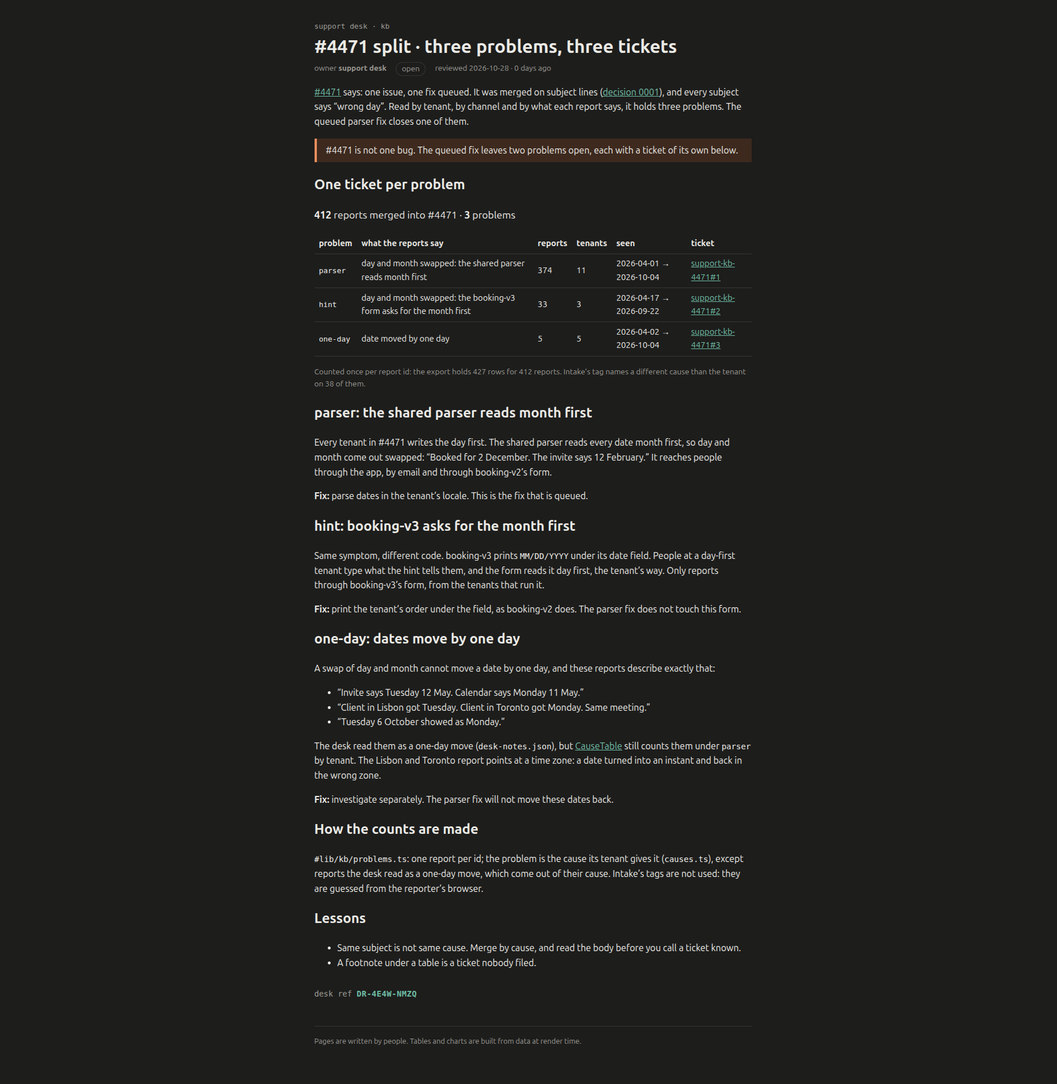
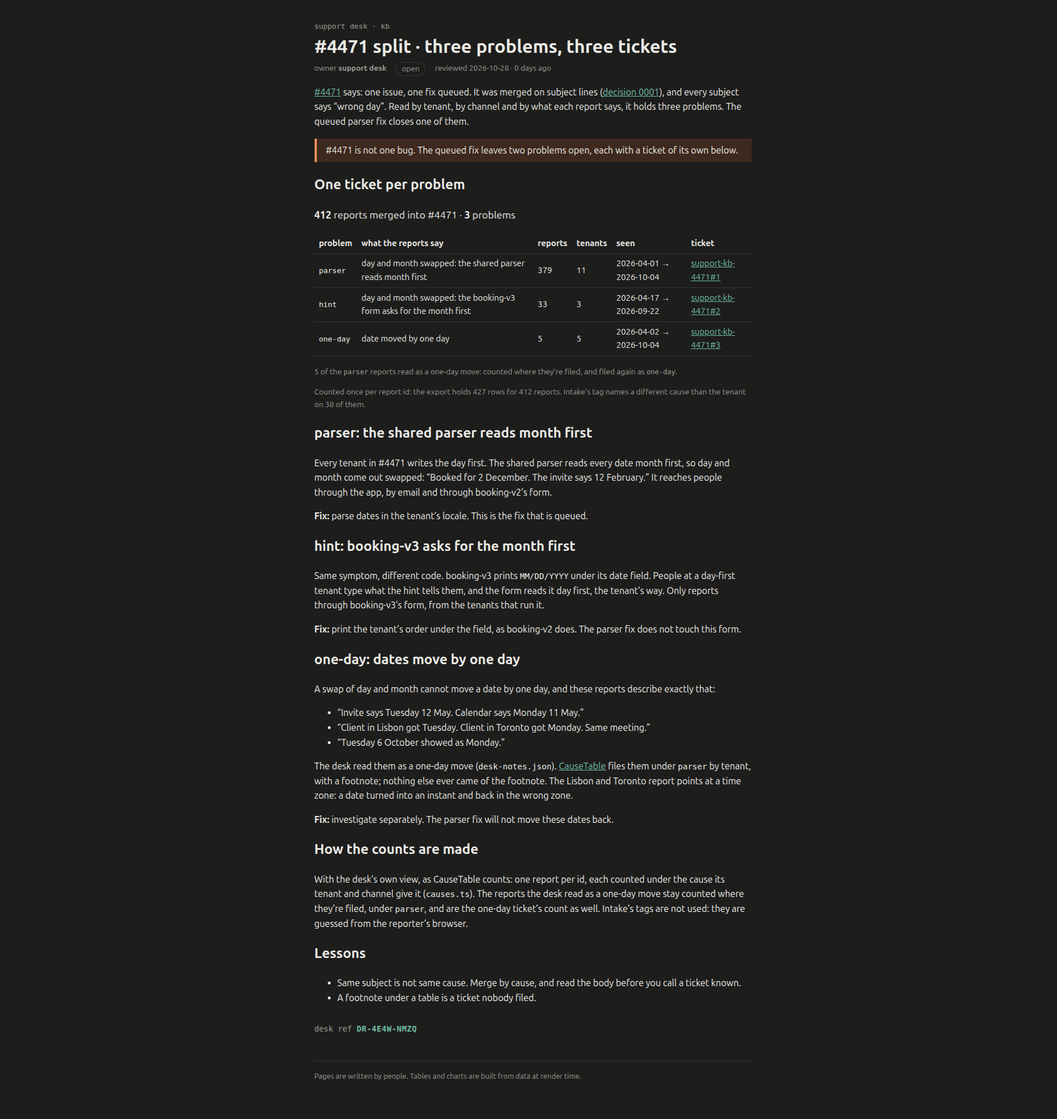
kb: count #4471 problems with the desk's own view (parser 379, hint 33, one-day 5)

Changed region(s): [[0.2791, 0.0308, 0.7133, 0.5538], [0.2791, 0.6154, 0.7133, 0.9231]]

diff --git a/rendered/site/kb/incidents/4471/split.html b/rendered/site/kb/incidents/4471/split.html
@@ -9,11 +9,11 @@
 		<link href="../../../_app/immutable/chunks/B2Ul7l_u.js" rel="modulepreload">
 		<link href="../../../_app/immutable/chunks/BCPXOG7W.js" rel="modulepreload">
 		<link href="../../../_app/immutable/chunks/Dh1V97Jm.js" rel="modulepreload">
-		<link href="../../../_app/immutable/entry/app.CLPMnXo7.js" rel="modulepreload">
+		<link href="../../../_app/immutable/entry/app.C-dClkmc.js" rel="modulepreload">
 		<link href="../../../_app/immutable/nodes/0.C9KfiiPz.js" rel="modulepreload">
 		<link href="../../../_app/immutable/chunks/DK3Fl9T5.js" rel="modulepreload">
-		<link href="../../../_app/immutable/nodes/5.BLvkPviV.js" rel="modulepreload">
-		<link href="../../../_app/immutable/chunks/BHf9DlkA.js" rel="modulepreload">
+		<link href="../../../_app/immutable/nodes/5.CCMx0hdd.js" rel="modulepreload">
+		<link href="../../../_app/immutable/chunks/CQjP2o5I.js" rel="modulepreload">
 		<link href="../../../_app/immutable/chunks/BTPwLomz.js" rel="modulepreload">
 		<link href="../../../_app/immutable/chunks/CVBzP17p.js" rel="modulepreload">
 		<link href="../../../_app/immutable/chunks/BIy4WKJS.js" rel="modulepreload">
@@ -26,30 +26,31 @@
     <div style="display: contents"><!--[--><!--[--><!--[0--><!--[--><!--[--><!--[-1--><!--[--><div class="kb svelte-e2jw2j"><header><a class="crumb svelte-e2jw2j" href="/kb">support desk · kb</a> <h1 class="svelte-e2jw2j">#4471 split · three problems, three tickets</h1> <p class="meta svelte-e2jw2j"><span>owner <b>support desk</b></span> <span class="status open svelte-e2jw2j">open</span> <span class="svelte-e2jw2j">reviewed 2026-10-28 · 0 days ago</span></p></header> <!--[-1--><!--]--> <main><p><a href="/kb/incidents/4471">#4471</a> says: one issue, one fix queued. It was merged on subject lines
 (<a href="/kb/decisions/0001-dedupe-by-subject">decision 0001</a>), and every subject says “wrong day”. Read by
 tenant, by channel and by what each report says, it holds three problems. The queued parser fix
-closes one of them.</p> <aside class="warn svelte-17bri61"><!---->#4471 is not one bug. The queued fix leaves two problems open, each with a ticket of its own below.<!----></aside><!----> <h2>One ticket per problem</h2> <p class="sum svelte-1op6c6"><strong>412</strong> reports merged into #4471 · <strong>3</strong> problems</p> <table><thead><tr><th>problem</th><th>what the reports say</th><th>reports</th><th>tenants</th><th>seen</th><th>ticket</th></tr></thead><tbody><!--[--><tr><td><code>parser</code></td><td>day and month swapped: the shared parser reads month first</td><td>374</td><td>11</td><td>2026-04-01 → 2026-10-04</td><td><!--[0--><a href="https://github.com/yazon/support-kb-4471/issues/1">support-kb-4471#1</a><!--]--></td></tr><tr><td><code>hint</code></td><td>day and month swapped: the booking-v3 form asks for the month first</td><td>33</td><td>3</td><td>2026-04-17 → 2026-09-22</td><td><!--[0--><a href="https://github.com/yazon/support-kb-4471/issues/2">support-kb-4471#2</a><!--]--></td></tr><tr><td><code>one-day</code></td><td>date moved by one day</td><td>5</td><td>5</td><td>2026-04-02 → 2026-10-04</td><td><!--[0--><a href="https://github.com/yazon/support-kb-4471/issues/3">support-kb-4471#3</a><!--]--></td></tr><!--]--></tbody></table> <p class="note svelte-1op6c6">Counted once per report id: the export holds 427 rows for 412 reports. Intake's tag names
+closes one of them.</p> <aside class="warn svelte-17bri61"><!---->#4471 is not one bug. The queued fix leaves two problems open, each with a ticket of its own below.<!----></aside><!----> <h2>One ticket per problem</h2> <p class="sum svelte-1op6c6"><strong>412</strong> reports merged into #4471 · <strong>3</strong> problems</p> <table><thead><tr><th>problem</th><th>what the reports say</th><th>reports</th><th>tenants</th><th>seen</th><th>ticket</th></tr></thead><tbody><!--[--><tr><td><code>parser</code></td><td>day and month swapped: the shared parser reads month first</td><td>379</td><td>11</td><td>2026-04-01 → 2026-10-04</td><td><!--[0--><a href="https://github.com/yazon/support-kb-4471/issues/1">support-kb-4471#1</a><!--]--></td></tr><tr><td><code>hint</code></td><td>day and month swapped: the booking-v3 form asks for the month first</td><td>33</td><td>3</td><td>2026-04-17 → 2026-09-22</td><td><!--[0--><a href="https://github.com/yazon/support-kb-4471/issues/2">support-kb-4471#2</a><!--]--></td></tr><tr><td><code>one-day</code></td><td>date moved by one day</td><td>5</td><td>5</td><td>2026-04-02 → 2026-10-04</td><td><!--[0--><a href="https://github.com/yazon/support-kb-4471/issues/3">support-kb-4471#3</a><!--]--></td></tr><!--]--></tbody></table> <!--[--><!--[0--><p class="note svelte-1op6c6">5 of the <code>parser</code> reports read as a one-day move: counted where they're filed, and filed again as <code>one-day</code>.</p><!--]--><!--[-1--><!--]--><!--]--> <p class="note svelte-1op6c6">Counted once per report id: the export holds 427 rows for 412 reports. Intake's tag names
   a different cause than the tenant on 38 of them.</p><!----> <h2>parser: the shared parser reads month first</h2> <p>Every tenant in #4471 writes the day first. The shared parser reads every date month first, so day
 and month come out swapped: “Booked for 2 December. The invite says 12 February.” It reaches people
 through the app, by email and through booking-v2’s form.</p> <p><strong>Fix:</strong> parse dates in the tenant’s locale. This is the fix that is queued.</p> <h2>hint: booking-v3 asks for the month first</h2> <p>Same symptom, different code. booking-v3 prints <code>MM/DD/YYYY</code> under its date field. People at a
 day-first tenant type what the hint tells them, and the form reads it day first, the tenant’s way.
 Only reports through booking-v3’s form, from the tenants that run it.</p> <p><strong>Fix:</strong> print the tenant’s order under the field, as booking-v2 does. The parser fix does not touch
-this form.</p> <h2>one-day: dates move by one day</h2> <p>A swap of day and month cannot move a date by one day, and these reports describe exactly that:</p> <ul><li>“Invite says Tuesday 12 May. Calendar says Monday 11 May.”</li> <li>“Client in Lisbon got Tuesday. Client in Toronto got Monday. Same meeting.”</li> <li>“Tuesday 6 October showed as Monday.”</li></ul> <p>The desk read them as a one-day move (<code>desk-notes.json</code>), but <a href="/kb/incidents/4471">CauseTable</a> still
-counts them under <code>parser</code> by tenant. The Lisbon and Toronto report points at a time zone: a date
-turned into an instant and back in the wrong zone.</p> <p><strong>Fix:</strong> investigate separately. The parser fix will not move these dates back.</p> <h2>How the counts are made</h2> <p><code>#lib/kb/problems.ts</code>: one report per id; the problem is the cause its tenant gives it
-(<code>causes.ts</code>), except reports the desk read as a one-day move, which come out of their cause. Intake’s
-tags are not used: they are guessed from the reporter’s browser.</p> <h2>Lessons</h2> <ul><li>Same subject is not same cause. Merge by cause, and read the body before you call a ticket known.</li> <li>A footnote under a table is a ticket nobody filed.</li></ul> <!--[0--><p class="stamp svelte-1280m42">desk ref <b class="svelte-1280m42">DR-4E4W-NMZQ</b></p><!--]--><!----><!----></main> <footer class="svelte-e2jw2j">Pages are written by people. Tables and charts are built from data at render time.</footer></div><!--]--><!--]--><!--]--><!----><!--]--><!--]--><!--]--><!----> <!--[-1--><!--]--><!--]-->
+this form.</p> <h2>one-day: dates move by one day</h2> <p>A swap of day and month cannot move a date by one day, and these reports describe exactly that:</p> <ul><li>“Invite says Tuesday 12 May. Calendar says Monday 11 May.”</li> <li>“Client in Lisbon got Tuesday. Client in Toronto got Monday. Same meeting.”</li> <li>“Tuesday 6 October showed as Monday.”</li></ul> <p>The desk read them as a one-day move (<code>desk-notes.json</code>). <a href="/kb/incidents/4471">CauseTable</a> files
+them under <code>parser</code> by tenant, with a footnote; nothing else ever came of the footnote. The Lisbon and
+Toronto report points at a time zone: a date turned into an instant and back in the wrong zone.</p> <p><strong>Fix:</strong> investigate separately. The parser fix will not move these dates back.</p> <h2>How the counts are made</h2> <p>With the desk’s own view, as CauseTable counts: one report per id, each counted under the cause its
+tenant and channel give it (<code>causes.ts</code>). The reports the desk read as a one-day move stay counted
+where they’re filed, under <code>parser</code>, and are the one-day ticket’s count as well. Intake’s tags are not
+used: they are guessed from the reporter’s browser.</p> <h2>Lessons</h2> <ul><li>Same subject is not same cause. Merge by cause, and read the body before you call a ticket known.</li> <li>A footnote under a table is a ticket nobody filed.</li></ul> <!--[0--><p class="stamp svelte-1280m42">desk ref <b class="svelte-1280m42">DR-4E4W-NMZQ</b></p><!--]--><!----><!----></main> <footer class="svelte-e2jw2j">Pages are written by people. Tables and charts are built from data at render time.</footer></div><!--]--><!--]--><!--]--><!----><!--]--><!--]--><!--]--><!----> <!--[-1--><!--]--><!--]-->
 			
 			<script>
 				{
-					__sveltekit_114actv = {
+					__sveltekit_jzo9e = {
 						base: new URL("../../..", location).pathname.slice(0, -1),
-						version: "1793191223536"
+						version: "1793193383338"
 					};
 
 					const element = document.currentScript.parentElement;
 
 					import("../../../_app/immutable/entry/start.CH5w6lId.js").then(async (kit) => {
-						kit.init(__sveltekit_114actv);
-						const app = await import("../../../_app/immutable/entry/app.CLPMnXo7.js");
+						kit.init(__sveltekit_jzo9e);
+						const app = await import("../../../_app/immutable/entry/app.C-dClkmc.js");
 						kit.start(app, element, {
 							node_ids: [0, 5],
 							data: [null,null],

diff --git a/rendered/site/_app/immutable/chunks/CQjP2o5I.js b/rendered/site/_app/immutable/chunks/CQjP2o5I.js
@@ -1,0 +1,15 @@
+import{t as e}from"./DK3Fl9T5.js";import{E as t,F as n,H as r,I as i,K as a,L as o,N as s,O as c,R as l,S as u,T as d,U as f,W as p,_ as m,c as h,h as g,k as _,n as v,q as y,r as b,t as x,w as S}from"./BCPXOG7W.js";import{t as C}from"./BTPwLomz.js";import{n as w,t as T}from"./CVBzP17p.js";import{a as E,i as D,l as O,o as k,r as A,t as j}from"./BIy4WKJS.js";var M=t(`<a> </a>`),N=t(`<tr><td><code> </code></td><td> </td><td> </td><td> </td><td> </td><td><!></td></tr>`),P=t(`<p class="note svelte-1op6c6"> <code> </code> reports read as a one-day move: counted where they're filed, and filed again as <code>one-day</code>.</p>`),F=t(`<p class="sum svelte-1op6c6"><strong> </strong> <strong> </strong> </p> <table><thead><tr><th>problem</th><th>what the reports say</th><th>reports</th><th>tenants</th><th>seen</th><th>ticket</th></tr></thead><tbody></tbody></table> <!> <p class="note svelte-1op6c6"> </p>`,1);function I(e,t){p(t,!0);let b=v(t,`tickets`,19,()=>({})),x=r(()=>w.filter(e=>e.mergedInto===t.ticket)),C=r(()=>O(_(x))),j=r(()=>E(_(C),A)),I=r(()=>_(C).filter(e=>T.oneDayMove.includes(e.id))),L=r(()=>_(C).filter(e=>e.meta.intakeTag!==D(e,A(e))).length),R=e=>{let t=e.map(e=>e.receivedAt.slice(0,10)).sort();return`${t[0]} → ${t[t.length-1]}`},z=r(()=>[..._(j).map(e=>({problem:e.cause,reports:e.reports,tenants:e.tenants,seen:`${e.firstSeen} → ${e.lastSeen}`})),{problem:`one-day`,reports:_(I),tenants:new Set(_(I).map(e=>e.tenant)).size,seen:R(_(I))}]),B={parser:`day and month swapped: the shared parser reads month first`,hint:`day and month swapped: the booking-v3 form asks for the month first`,"one-day":`date moved by one day`,unplaced:`no tenant on file`},V=e=>e.replace(/^https:\/\/github\.com\/[^/]+\/([^/]+)\/issues\//,`$1#`);var H=F(),U=i(H),W=n(U),G=o(W,!0),K=l(W),q=l(K),J=o(q,!0),Y=l(q);y(U);var X=l(U,2),Z=l(n(X));g(Z,21,()=>_(z),e=>e.problem,(e,t)=>{var r=N(),i=n(r),a=n(i),d=o(a,!0);y(i);var f=l(i),p=o(f,!0),g=l(f),v=o(g,!0),x=l(g),C=o(x,!0),w=l(x),T=o(w,!0),E=l(w),D=n(E),O=e=>{var n=M(),r=o(n,!0);s(e=>{h(n,`href`,b()[_(t).problem]),u(r,e)},[()=>V(b()[_(t).problem])]),S(e,n)},k=e=>{var t=c(`none yet`);S(e,t)};m(D,e=>{b()[_(t).problem]?e(O):e(k,-1)}),y(E),y(r),s(()=>{u(d,_(t).problem),u(p,B[_(t).problem]),u(v,_(t).reports.length),u(C,_(t).tenants),u(T,_(t).seen)}),S(e,r)}),y(Z),y(X);var Q=l(X,2);g(Q,17,()=>_(j),e=>e.cause,(e,t)=>{let c=r(()=>k(_(t),T.oneDayMove));var f=d(),p=i(f),h=e=>{var r=P(),i=n(r),d=l(i),f=o(d,!0);a(3),y(r),s(()=>{u(i,`${_(c)??``} of the `),u(f,_(t).cause)}),S(e,r)};m(p,e=>{_(c)&&e(h)}),S(e,f)});var $=l(Q,2),ee=o($);s(()=>{u(G,_(C).length),u(K,` reports merged into #${t.ticket??``} · `),u(J,_(z).length),u(Y,` ${_(z).length===1?`problem`:`problems`}`),u(ee,`Counted once per report id: the export holds ${_(x).length??``} rows for ${_(C).length??``} reports. Intake's tag names
+  a different cause than the tenant on ${_(L)??``} of them.`)}),S(e,H),f()}var L=`0123456789ABCDEFGHJKMNPQRSTVWXYZ`;function R(e,t){let n=t>>>0;for(let t=0;t<e.length;t++)n^=e.charCodeAt(t),n=Math.imul(n,16777619)>>>0;return n}function z(e){let t=e.trim(),n=R(t,2166136261),r=R(t,2654435769),i=BigInt(n)<<8n|BigInt(r&255),a=``;for(let e=0;e<8;e++)a=L[Number(i&31n)]+a,i>>=5n;return`DR-${a.slice(0,4)}-${a.slice(4)}`}var B=t(`<p class="stamp svelte-1280m42">desk ref <b class="svelte-1280m42"> </b></p>`),V=t(`<p class="stamp missing svelte-1280m42">no desk ref: this page isn't signed (no <code>signature</code> in its frontmatter)</p>`);function H(e,t){p(t,!0);let a=r(()=>t.signature?z(t.signature):null);var c=d(),h=i(c),g=e=>{var t=B(),r=l(n(t)),i=o(r,!0);y(t),s(()=>u(i,_(a))),S(e,t)},v=e=>{var t=V();S(e,t)};m(h,e=>{_(a)?e(g):e(v,-1)}),S(e,c),f()}var U=e({default:()=>Q,metadata:()=>W}),W={layout:`runbook`,title:`#4471 split · three problems, three tickets`,owner:`support desk`,status:`open`,reviewed:`2026-10-28T00:00:00.000Z`,signature:`Wojciech Czaplejewicz (yazon), with Claude Code`},{layout:G,title:K,owner:q,status:J,reviewed:Y,signature:X}=W,Z=t(`<p><a href="/kb/incidents/4471">#4471</a> says: one issue, one fix queued. It was merged on subject lines
+(<a href="/kb/decisions/0001-dedupe-by-subject">decision 0001</a>), and every subject says “wrong day”. Read by
+tenant, by channel and by what each report says, it holds three problems. The queued parser fix
+closes one of them.</p> <!> <h2>One ticket per problem</h2> <!> <h2>parser: the shared parser reads month first</h2> <p>Every tenant in #4471 writes the day first. The shared parser reads every date month first, so day
+and month come out swapped: “Booked for 2 December. The invite says 12 February.” It reaches people
+through the app, by email and through booking-v2’s form.</p> <p><strong>Fix:</strong> parse dates in the tenant’s locale. This is the fix that is queued.</p> <h2>hint: booking-v3 asks for the month first</h2> <p>Same symptom, different code. booking-v3 prints <code>MM/DD/YYYY</code> under its date field. People at a
+day-first tenant type what the hint tells them, and the form reads it day first, the tenant’s way.
+Only reports through booking-v3’s form, from the tenants that run it.</p> <p><strong>Fix:</strong> print the tenant’s order under the field, as booking-v2 does. The parser fix does not touch
+this form.</p> <h2>one-day: dates move by one day</h2> <p>A swap of day and month cannot move a date by one day, and these reports describe exactly that:</p> <ul><li>“Invite says Tuesday 12 May. Calendar says Monday 11 May.”</li> <li>“Client in Lisbon got Tuesday. Client in Toronto got Monday. Same meeting.”</li> <li>“Tuesday 6 October showed as Monday.”</li></ul> <p>The desk read them as a one-day move (<code>desk-notes.json</code>). <a href="/kb/incidents/4471">CauseTable</a> files
+them under <code>parser</code> by tenant, with a footnote; nothing else ever came of the footnote. The Lisbon and
+Toronto report points at a time zone: a date turned into an instant and back in the wrong zone.</p> <p><strong>Fix:</strong> investigate separately. The parser fix will not move these dates back.</p> <h2>How the counts are made</h2> <p>With the desk’s own view, as CauseTable counts: one report per id, each counted under the cause its
+tenant and channel give it (<code>causes.ts</code>). The reports the desk read as a one-day move stay counted
+where they’re filed, under <code>parser</code>, and are the one-day ticket’s count as well. Intake’s tags are not
+used: they are guessed from the reporter’s browser.</p> <h2>Lessons</h2> <ul><li>Same subject is not same cause. Merge by cause, and read the body before you call a ticket known.</li> <li>A footnote under a table is a ticket nobody filed.</li></ul> <!>`,1);function Q(e,t){let n=x(t,[`children`,`$$slots`,`$$events`,`$$legacy`]),r=`https://github.com/yazon/support-kb-4471/issues`,o={parser:`${r}/1`,hint:`${r}/2`,"one-day":`${r}/3`};C(e,b(()=>n,()=>W,{children:(e,t)=>{var n=Z(),r=l(i(n),2);j(r,{kind:`warn`,children:(e,t)=>{a();var n=c(`#4471 is not one bug. The queued fix leaves two problems open, each with a ticket of its own below.`);S(e,n)},$$slots:{default:!0}});var s=l(r,4);I(s,{ticket:4471,get tickets(){return o}}),H(l(s,32),{get signature(){return X}}),S(e,n)},$$slots:{default:!0}}))}export{Q as n,U as t};

diff --git a/src/lib/kb/ProblemTable.svelte b/src/lib/kb/ProblemTable.svelte
@@ -1,30 +1,42 @@
 <script lang="ts">
   import reports from '#lib/data/reports-4471.json';
   import notes from '#lib/data/desk-notes.json';
-  import { causeOf, uniqueById, type Report } from '#lib/kb/causes';
-  import { groupByProblem, type Problem } from '#lib/kb/problems';
+  import { causeOf, groupByCause, readAs, uniqueById, type Report } from '#lib/kb/causes';
   import { tenantOf } from '#lib/kb/locales';
 
+  // The desk's own view (CauseTable): a report counts where it is filed. The reports the desk read as
+  // a one-day move stay counted under their cause, and get a ticket of their own as well.
   // tickets: the ticket each problem is filed as, problem → URL.
-  let { ticket, tickets = {} }: { ticket: number; tickets?: Partial<Record<Problem, string>> } = $props();
+  let { ticket, tickets = {} }: { ticket: number; tickets?: Record<string, string> } = $props();
 
   const rows = $derived((reports as Report[]).filter((r) => r.mergedInto === ticket));
   const merged = $derived(uniqueById(rows));
-  const groups = $derived(groupByProblem(merged, tenantOf, notes.oneDayMove));
+  const groups = $derived(groupByCause(merged, tenantOf));
+  const oneDay = $derived(merged.filter((r) => notes.oneDayMove.includes(r.id)));
   const mistagged = $derived(merged.filter((r) => r.meta.intakeTag !== causeOf(r, tenantOf(r))).length);
 
-  const WHAT: Record<Problem, string> = {
+  const seen = (rs: Report[]) => {
+    const days = rs.map((r) => r.receivedAt.slice(0, 10)).sort();
+    return `${days[0]} → ${days[days.length - 1]}`;
+  };
+  const problems = $derived([
+    ...groups.map((g) => ({ problem: g.cause, reports: g.reports, tenants: g.tenants, seen: `${g.firstSeen} → ${g.lastSeen}` })),
+    { problem: 'one-day', reports: oneDay, tenants: new Set(oneDay.map((r) => r.tenant)).size, seen: seen(oneDay) },
+  ]);
+
+  const WHAT: Record<string, string> = {
     parser: 'day and month swapped: the shared parser reads month first',
     hint: 'day and month swapped: the booking-v3 form asks for the month first',
     'one-day': 'date moved by one day',
     unplaced: 'no tenant on file',
   };
+  const label = (url: string) => url.replace(/^https:\/\/github\.com\/[^/]+\/([^/]+)\/issues\//, '$1#');
 </script>
 
 <p class="sum">
   <strong>{merged.length}</strong> reports merged into #{ticket} ·
-  <strong>{groups.length}</strong>
-  {groups.length === 1 ? 'problem' : 'problems'}
+  <strong>{problems.length}</strong>
+  {problems.length === 1 ? 'problem' : 'problems'}
 </p>
 
 <table>
@@ -32,20 +44,25 @@
     <tr><th>problem</th><th>what the reports say</th><th>reports</th><th>tenants</th><th>seen</th><th>ticket</th></tr>
   </thead>
   <tbody>
-    {#each groups as g (g.problem)}
+    {#each problems as p (p.problem)}
       <tr>
-        <td><code>{g.problem}</code></td>
-        <td>{WHAT[g.problem]}</td>
-        <td>{g.reports.length}</td>
-        <td>{g.tenants}</td>
-        <td>{g.firstSeen} → {g.lastSeen}</td>
-        <td>
-          {#if tickets[g.problem]}<a href={tickets[g.problem]}>{tickets[g.problem]?.replace(/^https:\/\/github\.com\/[^/]+\/([^/]+)\/issues\//, '$1#')}</a>{:else}none yet{/if}
-        </td>
+        <td><code>{p.problem}</code></td>
+        <td>{WHAT[p.problem]}</td>
+        <td>{p.reports.length}</td>
+        <td>{p.tenants}</td>
+        <td>{p.seen}</td>
+        <td>{#if tickets[p.problem]}<a href={tickets[p.problem]}>{label(tickets[p.problem])}</a>{:else}none yet{/if}</td>
       </tr>
     {/each}
   </tbody>
 </table>
+
+{#each groups as g (g.cause)}
+  {@const moved = readAs(g, notes.oneDayMove)}
+  {#if moved}
+    <p class="note">{moved} of the <code>{g.cause}</code> reports read as a one-day move: counted where they're filed, and filed again as <code>one-day</code>.</p>
+  {/if}
+{/each}
 
 <p class="note">
   Counted once per report id: the export holds {rows.length} rows for {merged.length} reports. Intake's tag names

diff --git a/rendered/site/_app/immutable/nodes/2.DesPbm-3.js b/rendered/site/_app/immutable/nodes/2.DesPbm-3.js
@@ -1,0 +1,2 @@
+import{E as e,F as t,I as n,K as r,L as i,N as a,R as o,S as s,U as c,W as l,c as u,d,h as f,i as p,k as m,q as h,r as g,t as _,w as v}from"../chunks/BCPXOG7W.js";import{n as y,r as b,t as x}from"../chunks/BTPwLomz.js";import{t as S}from"../chunks/YX22L_Ud.js";import{t as C}from"../chunks/CgeRC4yK.js";import{t as w}from"../chunks/CQjP2o5I.js";import{t as T}from"../chunks/BGqJVSDw.js";var E=e(`<tr><td><a> </a></td><td> </td><td> </td><td> </td></tr>`),D=e(`<table><thead><tr><th>page</th><th>owner</th><th>status</th><th>reviewed</th></tr></thead><tbody></tbody></table>`);function O(e,n){l(n,!1);let r=Object.entries(Object.assign({"/src/routes/kb/decisions/0001-dedupe-by-subject/+page.svx":S,"/src/routes/kb/incidents/4471/+page.svx":C,"/src/routes/kb/incidents/4471/split/+page.svx":w,"/src/routes/kb/triage/dedupe/+page.svx":T})).map(([e,t])=>({href:e.replace(`/src/routes`,``).replace(`/+page.svx`,``),...t.metadata})).sort((e,t)=>e.href.localeCompare(t.href));p();var g=D(),_=o(t(g));f(_,5,()=>r,e=>e.href,(e,n)=>{var r=E(),c=t(r),l=t(c),f=i(l,!0);h(c);var p=o(c),g=i(p,!0),_=o(p),x=i(_,!0),S=o(_);let C;var w=i(S,!0);h(r),a((e,t)=>{u(l,`href`,m(n).href),s(f,m(n).title),s(g,m(n).owner),s(x,m(n).status),C=d(S,1,`svelte-tbc1ha`,null,C,{stale:e}),s(w,t)},[()=>y(m(n).reviewed)>180,()=>b(m(n).reviewed)]),v(e,r)}),h(_),h(g),v(e,g),c()}var k={layout:`runbook`,title:`Support knowledge base`,owner:`support desk`,status:`living`,reviewed:`2026-09-28T00:00:00.000Z`},{layout:A,title:j,owner:M,status:N,reviewed:P}=k,F=e(`<p>What the support desk knows, kept next to the code that knows it. One desk, every product: <code>sched-prod</code> (calendar invites for about 300k people) and the rest. When something breaks, the reports land here first.</p> <p>Start with <a href="/kb/triage/dedupe">triage</a> if you are new on the desk.</p> <h2>Pages</h2> <!> <h2>Writing a page</h2> <p>Keep the words here and the logic in <code>src/lib</code>. A number that can be computed should be
+computed by a component, not typed into a paragraph.</p>`,1);function I(e,t){let i=_(t,[`children`,`$$slots`,`$$events`,`$$legacy`]);x(e,g(()=>i,()=>k,{children:(e,t)=>{var i=F();O(o(n(i),6),{}),r(4),v(e,i)},$$slots:{default:!0}}))}export{I as component};

diff --git a/rendered/site/kb.html b/rendered/site/kb.html
@@ -9,16 +9,16 @@
 		<link href="./_app/immutable/chunks/B2Ul7l_u.js" rel="modulepreload">
 		<link href="./_app/immutable/chunks/BCPXOG7W.js" rel="modulepreload">
 		<link href="./_app/immutable/chunks/Dh1V97Jm.js" rel="modulepreload">
-		<link href="./_app/immutable/entry/app.CLPMnXo7.js" rel="modulepreload">
+		<link href="./_app/immutable/entry/app.C-dClkmc.js" rel="modulepreload">
 		<link href="./_app/immutable/nodes/0.C9KfiiPz.js" rel="modulepreload">
 		<link href="./_app/immutable/chunks/DK3Fl9T5.js" rel="modulepreload">
-		<link href="./_app/immutable/nodes/2.Cda-4exC.js" rel="modulepreload">
+		<link href="./_app/immutable/nodes/2.DesPbm-3.js" rel="modulepreload">
 		<link href="./_app/immutable/chunks/BTPwLomz.js" rel="modulepreload">
 		<link href="./_app/immutable/chunks/YX22L_Ud.js" rel="modulepreload">
 		<link href="./_app/immutable/chunks/CgeRC4yK.js" rel="modulepreload">
 		<link href="./_app/immutable/chunks/CVBzP17p.js" rel="modulepreload">
 		<link href="./_app/immutable/chunks/BIy4WKJS.js" rel="modulepreload">
-		<link href="./_app/immutable/chunks/BHf9DlkA.js" rel="modulepreload">
+		<link href="./_app/immutable/chunks/CQjP2o5I.js" rel="modulepreload">
 		<link href="./_app/immutable/chunks/BGqJVSDw.js" rel="modulepreload">
 		<!--e2jw2j--><!----><title>Support knowledge base · support kb</title>
 		<link href="./_app/immutable/assets/runbook.COyw0cbZ.css" rel="stylesheet">
@@ -34,16 +34,16 @@ computed by a component, not typed into a paragraph.</p><!----></main> <footer c
 			
 			<script>
 				{
-					__sveltekit_114actv = {
+					__sveltekit_jzo9e = {
 						base: new URL(".", location).pathname.slice(0, -1),
-						version: "1793191223536"
+						version: "1793193383338"
 					};
 
 					const element = document.currentScript.parentElement;
 
 					import("./_app/immutable/entry/start.CH5w6lId.js").then(async (kit) => {
-						kit.init(__sveltekit_114actv);
-						const app = await import("./_app/immutable/entry/app.CLPMnXo7.js");
+						kit.init(__sveltekit_jzo9e);
+						const app = await import("./_app/immutable/entry/app.C-dClkmc.js");
 						kit.start(app, element, {
 							node_ids: [0, 2],
 							data: [null,null],

diff --git a/rendered/site/_app/immutable/entry/app.C-dClkmc.js b/rendered/site/_app/immutable/entry/app.C-dClkmc.js
@@ -1,0 +1,2 @@
+const __vite__mapDeps=(i,m=__vite__mapDeps,d=(m.f||(m.f=["../nodes/0.C9KfiiPz.js","../chunks/DK3Fl9T5.js","../chunks/BCPXOG7W.js","../nodes/1.mOwa9YdW.js","../chunks/Dh1V97Jm.js","./payload.DSmR2FwN.js","../nodes/2.DesPbm-3.js","../chunks/BTPwLomz.js","../assets/runbook.COyw0cbZ.css","../chunks/YX22L_Ud.js","../chunks/CgeRC4yK.js","../chunks/CVBzP17p.js","../chunks/BIy4WKJS.js","../assets/Callout.AbLv9dM_.css","../assets/_page.D56XP2ro.css","../chunks/CQjP2o5I.js","../assets/_page.l10rmzXo.css","../chunks/BGqJVSDw.js","../assets/_page.DO6Yid7X.css","../assets/2.Bt0MwIZg.css","../nodes/3.DRxPfvn3.js","../nodes/4.rt2PfD_4.js","../nodes/5.CCMx0hdd.js","../nodes/6.sFtxrtyV.js"])))=>i.map(i=>d[i]);
+import{t as e}from"../chunks/CRzLMJPS.js";var t={},n=[()=>e(()=>import(`../nodes/0.C9KfiiPz.js`),__vite__mapDeps([0,1,2]),import.meta.url),()=>e(()=>import(`../nodes/1.mOwa9YdW.js`),__vite__mapDeps([3,2,4,5]),import.meta.url),()=>e(()=>import(`../nodes/2.DesPbm-3.js`),__vite__mapDeps([6,2,7,8,9,1,10,11,12,13,14,15,16,17,18,19]),import.meta.url),()=>e(()=>import(`../nodes/3.DRxPfvn3.js`),__vite__mapDeps([20,9,1,2,7,8]),import.meta.url),()=>e(()=>import(`../nodes/4.rt2PfD_4.js`),__vite__mapDeps([21,10,1,2,7,8,11,12,13,14]),import.meta.url),()=>e(()=>import(`../nodes/5.CCMx0hdd.js`),__vite__mapDeps([22,15,1,2,7,8,11,12,13,16]),import.meta.url),()=>e(()=>import(`../nodes/6.sFtxrtyV.js`),__vite__mapDeps([23,17,1,2,7,8,12,13,18]),import.meta.url)],r=[],i={"/kb":[2],"/kb/decisions/0001-dedupe-by-subject":[3],"/kb/incidents/4471":[4],"/kb/incidents/4471/split":[5],"/kb/triage/dedupe":[6]},a={handleError:(({kind:e,error:t})=>{e===`unknown`&&console.error(t)}),reroute:(()=>{}),transport:{}},o=Object.fromEntries(Object.entries(a.transport).map(([e,t])=>[e,t.decode])),s=Object.fromEntries(Object.entries(a.transport).map(([e,t])=>[e,t.encode])),c=!1,l=(e,t)=>o[e](t),u=()=>e(()=>import(`../chunks/Bjy-W4x2.js`).then(e=>e.default),[],import.meta.url);export{l as decode,o as decoders,i as dictionary,s as encoders,u as get_error_template,c as hash,a as hooks,t as matchers,n as nodes,r as server_loads};

diff --git a/rendered/site/kb/decisions/0001-dedupe-by-subject.html b/rendered/site/kb/decisions/0001-dedupe-by-subject.html
@@ -9,7 +9,7 @@
 		<link href="../../_app/immutable/chunks/B2Ul7l_u.js" rel="modulepreload">
 		<link href="../../_app/immutable/chunks/BCPXOG7W.js" rel="modulepreload">
 		<link href="../../_app/immutable/chunks/Dh1V97Jm.js" rel="modulepreload">
-		<link href="../../_app/immutable/entry/app.CLPMnXo7.js" rel="modulepreload">
+		<link href="../../_app/immutable/entry/app.C-dClkmc.js" rel="modulepreload">
 		<link href="../../_app/immutable/nodes/0.C9KfiiPz.js" rel="modulepreload">
 		<link href="../../_app/immutable/chunks/DK3Fl9T5.js" rel="modulepreload">
 		<link href="../../_app/immutable/nodes/3.DRxPfvn3.js" rel="modulepreload">
@@ -26,16 +26,16 @@ engineering merges them later.</li></ul><!----></main> <footer class="svelte-e2j
 			
 			<script>
 				{
-					__sveltekit_114actv = {
+					__sveltekit_jzo9e = {
 						base: new URL("../..", location).pathname.slice(0, -1),
-						version: "1793191223536"
+						version: "1793193383338"
 					};
 
 					const element = document.currentScript.parentElement;
 
 					import("../../_app/immutable/entry/start.CH5w6lId.js").then(async (kit) => {
-						kit.init(__sveltekit_114actv);
-						const app = await import("../../_app/immutable/entry/app.CLPMnXo7.js");
+						kit.init(__sveltekit_jzo9e);
+						const app = await import("../../_app/immutable/entry/app.C-dClkmc.js");
 						kit.start(app, element, {
 							node_ids: [0, 3],
 							data: [null,null],

diff --git a/rendered/site/kb/incidents/4471.html b/rendered/site/kb/incidents/4471.html
@@ -9,7 +9,7 @@
 		<link href="../../_app/immutable/chunks/B2Ul7l_u.js" rel="modulepreload">
 		<link href="../../_app/immutable/chunks/BCPXOG7W.js" rel="modulepreload">
 		<link href="../../_app/immutable/chunks/Dh1V97Jm.js" rel="modulepreload">
-		<link href="../../_app/immutable/entry/app.CLPMnXo7.js" rel="modulepreload">
+		<link href="../../_app/immutable/entry/app.C-dClkmc.js" rel="modulepreload">
 		<link href="../../_app/immutable/nodes/0.C9KfiiPz.js" rel="modulepreload">
 		<link href="../../_app/immutable/chunks/DK3Fl9T5.js" rel="modulepreload">
 		<link href="../../_app/immutable/nodes/4.rt2PfD_4.js" rel="modulepreload">
@@ -29,16 +29,16 @@ first. The fix is queued.</p> <aside class="note svelte-17bri61"><!---->Known. O
 			
 			<script>
 				{
-					__sveltekit_114actv = {
+					__sveltekit_jzo9e = {
 						base: new URL("../..", location).pathname.slice(0, -1),
-						version: "1793191223536"
+						version: "1793193383338"
 					};
 
 					const element = document.currentScript.parentElement;
 
 					import("../../_app/immutable/entry/start.CH5w6lId.js").then(async (kit) => {
-						kit.init(__sveltekit_114actv);
-						const app = await import("../../_app/immutable/entry/app.CLPMnXo7.js");
+						kit.init(__sveltekit_jzo9e);
+						const app = await import("../../_app/immutable/entry/app.C-dClkmc.js");
 						kit.start(app, element, {
 							node_ids: [0, 4],
 							data: [null,null],

diff --git a/rendered/site/kb/triage/dedupe.html b/rendered/site/kb/triage/dedupe.html
@@ -9,7 +9,7 @@
 		<link href="../../_app/immutable/chunks/B2Ul7l_u.js" rel="modulepreload">
 		<link href="../../_app/immutable/chunks/BCPXOG7W.js" rel="modulepreload">
 		<link href="../../_app/immutable/chunks/Dh1V97Jm.js" rel="modulepreload">
-		<link href="../../_app/immutable/entry/app.CLPMnXo7.js" rel="modulepreload">
+		<link href="../../_app/immutable/entry/app.C-dClkmc.js" rel="modulepreload">
 		<link href="../../_app/immutable/nodes/0.C9KfiiPz.js" rel="modulepreload">
 		<link href="../../_app/immutable/chunks/DK3Fl9T5.js" rel="modulepreload">
 		<link href="../../_app/immutable/nodes/6.sFtxrtyV.js" rel="modulepreload">
@@ -29,16 +29,16 @@ anything else.<!----></aside><!----> <h2>Try it</h2> <div class="try svelte-gq0h
 			
 			<script>
 				{
-					__sveltekit_114actv = {
+					__sveltekit_jzo9e = {
 						base: new URL("../..", location).pathname.slice(0, -1),
-						version: "1793191223536"
+						version: "1793193383338"
 					};
 
 					const element = document.currentScript.parentElement;
 
 					import("../../_app/immutable/entry/start.CH5w6lId.js").then(async (kit) => {
-						kit.init(__sveltekit_114actv);
-						const app = await import("../../_app/immutable/entry/app.CLPMnXo7.js");
+						kit.init(__sveltekit_jzo9e);
+						const app = await import("../../_app/immutable/entry/app.C-dClkmc.js");
 						kit.start(app, element, {
 							node_ids: [0, 6],
 							data: [null,null],

diff --git a/rendered/site/_app/immutable/nodes/5.CCMx0hdd.js b/rendered/site/_app/immutable/nodes/5.CCMx0hdd.js
@@ -1,0 +1,1 @@
+export{n as component}from"../chunks/CQjP2o5I.js";
